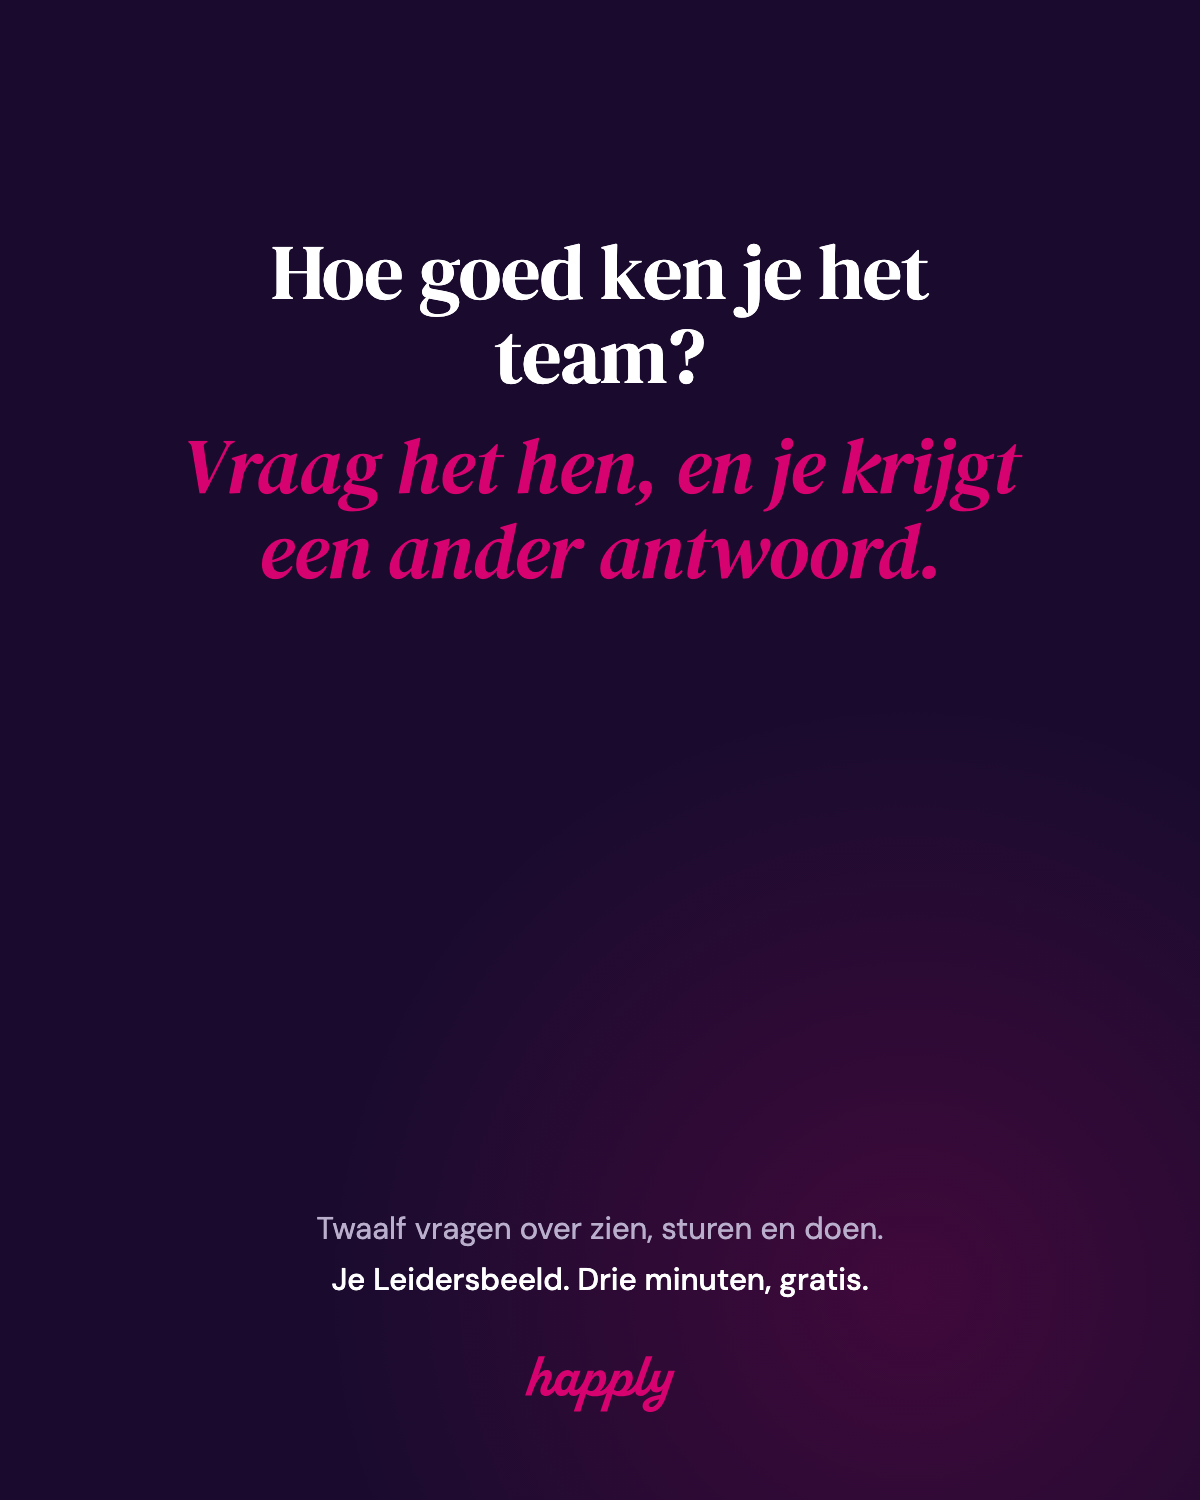
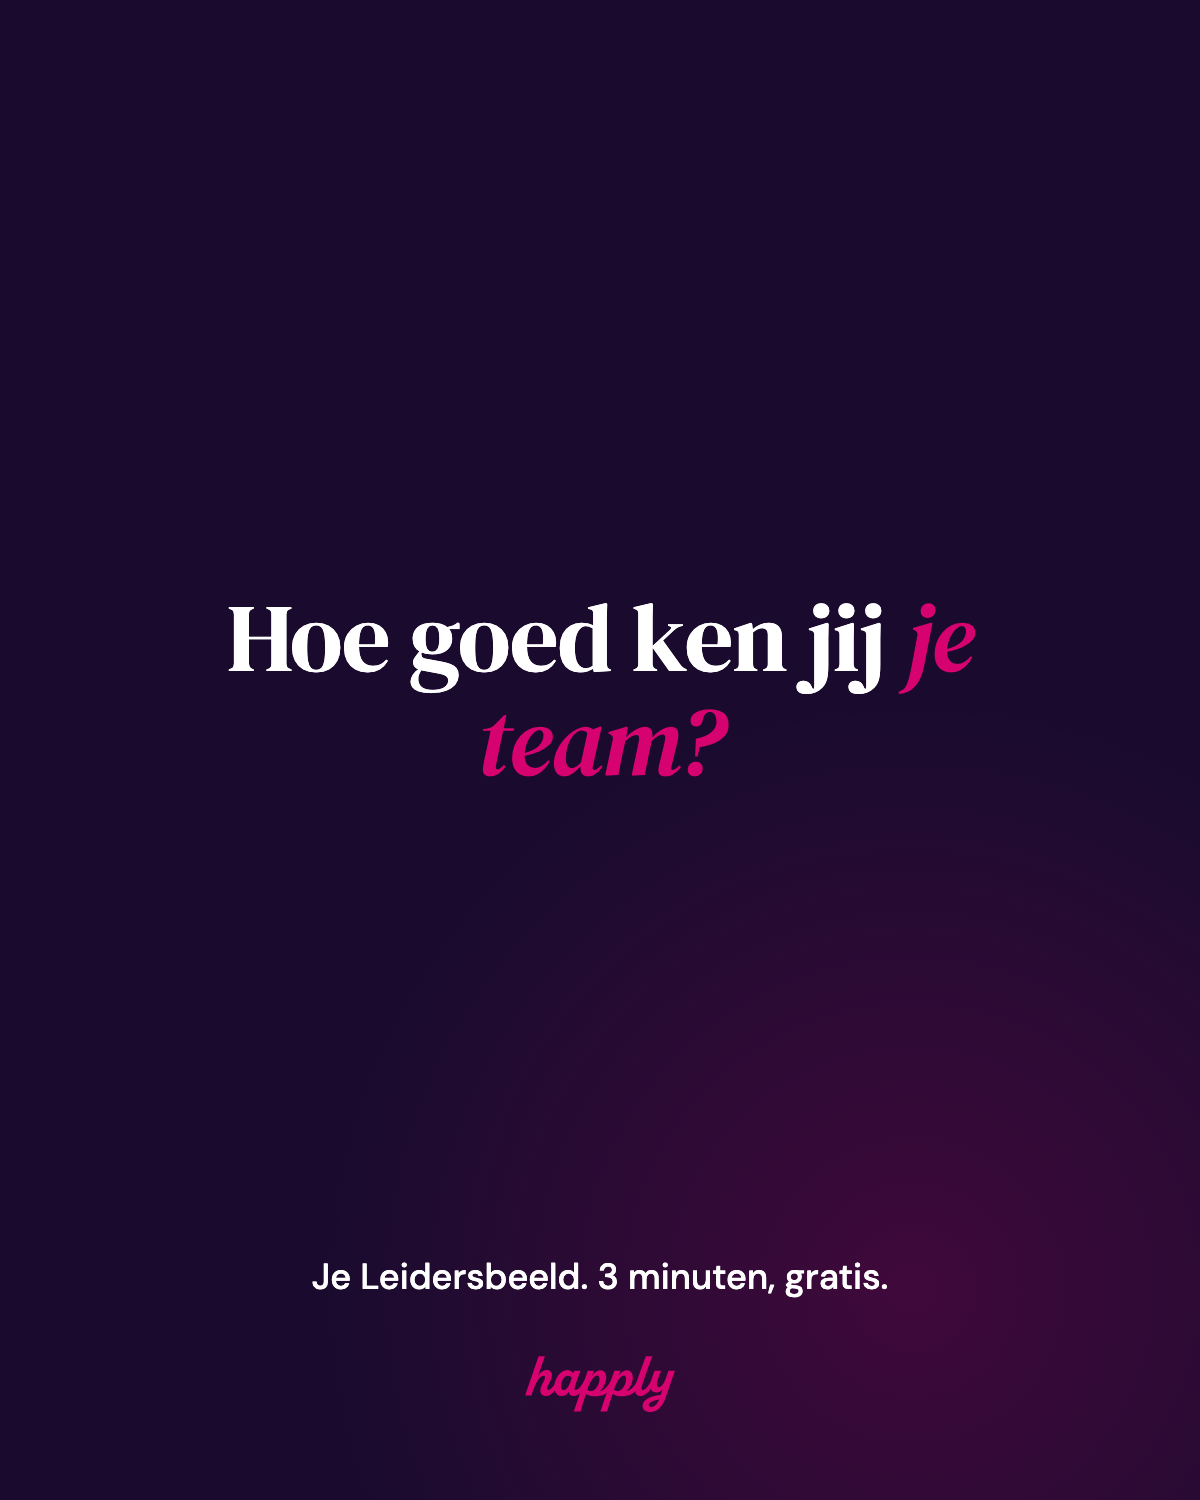
Kaart 4 directer: Hoe goed ken jij je team?
Op verzoek. De omdraaiende tweede regel is weg; de kop staat alleen,
groter en in het midden, met eronder alleen wat het is en wat het kost:
je Leidersbeeld, 3 minuten, gratis. De kaart hoort bij post 1 en spreekt
de leidinggevende aan; de site houdt het team voor allebei.

Changed region(s): [[0.1542, 0.1533, 0.8633, 0.5213], [0.2467, 0.7973, 0.74, 0.8893]]

diff --git a/assets/campagne/kaart-sjabloon.html b/assets/campagne/kaart-sjabloon.html
@@ -68,15 +68,13 @@
   }
   /* Kaart 4: het Leidersbeeld. Twee beelden die uiteenlopen, met de gratis
      eerste stap eronder. Zelfde opbouw als kaart 3. */
-  #kaart4{justify-content:flex-start;padding-top:230px}
-  #kaart4 h1{font-size:78px;max-width:860px}
-  #kaart4 h1 .wit{display:block;color:#fff;font-style:normal}
-  #kaart4 h1 em{display:block;margin-top:26px}
+  #kaart4{justify-content:center;padding-bottom:120px}
+  #kaart4 h1{font-size:96px;max-width:820px}
   #kaart4 .landing{
     position:absolute;bottom:200px;left:50%;transform:translateX(-50%);
     width:100%;font-size:31px;font-weight:400;color:var(--lavendel);
   }
-  #kaart4 .landing b{display:block;color:#fff;font-weight:500;margin-top:10px}
+  #kaart4 .landing b{display:block;color:#fff;font-weight:500;font-size:36px}
 </style>
 </head>
 <body>
@@ -98,8 +96,8 @@
 </section>
 
 <section class="kaart" id="kaart4">
-  <h1><span class="wit">Hoe goed ken je het team?</span><em>Vraag het hen, en je krijgt een ander antwoord.</em></h1>
-  <div class="landing">Twaalf vragen over zien, sturen en doen.<b>Je Leidersbeeld. Drie minuten, gratis.</b></div>
+  <h1>Hoe goed ken jij <em>je team?</em></h1>
+  <div class="landing"><b>Je Leidersbeeld. 3 minuten, gratis.</b></div>
 </section>
 
 <div class="logo" aria-label="Happly">
